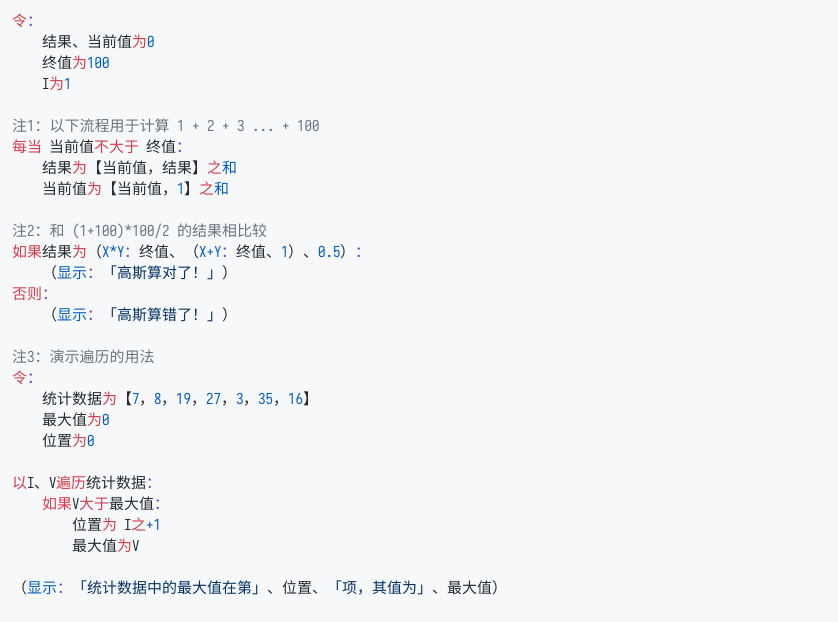
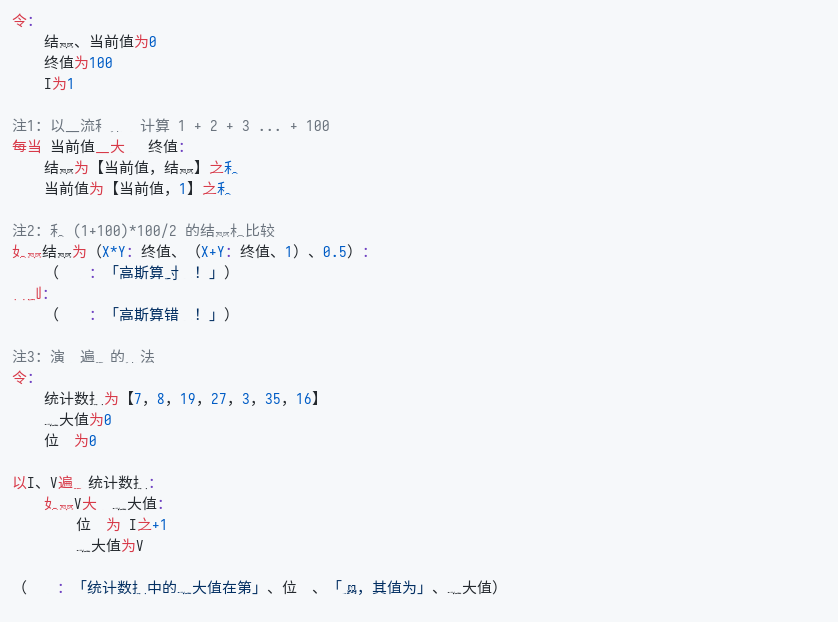
feat: add equal mark

diff --git a/syntax/ast.go b/syntax/ast.go
@@ -491,7 +491,7 @@ func ParseExpression(p *Parser, asVarAssign bool) Expression {
 			lex.TypeLogicLtW,
 			lex.TypeLogicLteW,
 		},
-		{lex.TypeLogicYesW, lex.TypeLogicYesIIW, lex.TypeLogicNotW},
+		{lex.TypeLogicYesW, lex.TypeLogicYesIIW, lex.TypeEqualMark, lex.TypeLogicNotW},
 	}
 	var logicTypeMap = map[lex.TokenType]LogicTypeE{
 		lex.TypeLogicOrW:    LogicOR,
@@ -505,6 +505,7 @@ func ParseExpression(p *Parser, asVarAssign bool) Expression {
 		lex.TypeLogicNotW:   LogicNEQ,
 		lex.TypeLogicYesW:   LogicEQ,
 		lex.TypeLogicYesIIW: LogicEQ,
+		lex.TypeEqualMark:   LogicEQ,
 	}
 	var logicAllowTails = [4]bool{true, true, false, false}
 
@@ -528,7 +529,7 @@ func ParseExpression(p *Parser, asVarAssign bool) Expression {
 		if !match {
 			return leftExpr
 		}
-		if (tk.Type == lex.TypeLogicYesW || tk.Type == lex.TypeLogicYesIIW) && asVarAssign {
+		if (tk.Type == lex.TypeLogicYesW || tk.Type == lex.TypeLogicYesIIW || tk.Type == lex.TypeEqualMark) && asVarAssign {
 			if match2, _ := p.tryConsume(lex.TypeObjRef); match2 {
 				refMarkForLogicYes = true
 			}
@@ -537,7 +538,7 @@ func ParseExpression(p *Parser, asVarAssign bool) Expression {
 		rightExpr := logicItemParser(idx + 1)
 
 		// compose logic expr
-		if (tk.Type == lex.TypeLogicYesW || tk.Type == lex.TypeLogicYesIIW) && asVarAssign {
+		if (tk.Type == lex.TypeLogicYesW || tk.Type == lex.TypeLogicYesIIW || tk.Type == lex.TypeEqualMark) && asVarAssign {
 			// if 为 (LogicYes) is interpreted as varAssign
 			// usually for normal expressions (except 如果，每当 expr)
 			vid, ok := leftExpr.(Assignable)
@@ -1124,6 +1125,7 @@ func parseVDAssignPair(p *Parser) VDAssignPair {
 	validKeywords := []lex.TokenType{
 		lex.TypeLogicYesW,
 		lex.TypeLogicYesIIW,
+		lex.TypeEqualMark,
 		lex.TypeAssignConstW,
 		lex.TypeObjNewW,
 	}
@@ -1133,7 +1135,7 @@ func parseVDAssignPair(p *Parser) VDAssignPair {
 	}
 
 	switch tk.Type {
-	case lex.TypeLogicYesW, lex.TypeLogicYesIIW:
+	case lex.TypeLogicYesW, lex.TypeLogicYesIIW, lex.TypeEqualMark:
 		refMark := false
 		if match, _ := p.tryConsume(lex.TypeObjRef); match {
 			refMark = true
@@ -1642,8 +1644,8 @@ func parseConstructor(p *Parser) []*ParamItem {
 func parsePropertyDeclareStmt(p *Parser) *PropertyDeclareStmt {
 	// #1. parse ID
 	idItem := parseFuncID(p)
-	// consume 为 or 是
-	p.consume(lex.TypeLogicYesW, lex.TypeLogicYesIIW)
+	// consume 为 or 是 or =
+	p.consume(lex.TypeLogicYesW, lex.TypeLogicYesIIW, lex.TypeEqualMark)
 
 	// #2. parse expr
 	initExpr := ParseExpression(p, true)

diff --git a/lex/lexer.go b/lex/lexer.go
@@ -242,6 +242,7 @@ const (
 	TypeStmtQuoteR    TokenType = 26 // }
 	TypeMapQHash      TokenType = 27 // #{
 	TypePauseCommaSep TokenType = 28 // 、
+	TypeEqualMark     TokenType = 29 // =
 )
 
 // next - return current rune, and move forward the cursor for 1 character.
@@ -808,7 +809,7 @@ func (l *Lexer) parseMarkers(ch rune) (*Token, *error.Error) {
 			l.pushBuffer(l.next())
 			return NewMarkToken(l.chBuffer, TypeMapData, startR, 2), nil
 		}
-		return nil, error.InvalidSingleEqual()
+		return NewMarkToken(l.chBuffer, TypeEqualMark, startR, 1), nil
 	case DoubleArrow:
 		return NewMarkToken(l.chBuffer, TypeMapData, startR, 1), nil
 	}

diff --git a/cmd/znt/cmds/gen_code_image.go b/cmd/znt/cmds/gen_code_image.go
@@ -86,7 +86,7 @@ func loadFontFace(fileName string, fontSize float64) (font.Face, error) {
 
 	fontFace := truetype.NewFace(fontT, &truetype.Options{
 		Size:    fontSize,
-		Hinting: font.HintingVertical,
+		Hinting: font.HintingNone,
 	})
 	return fontFace, nil
 }
